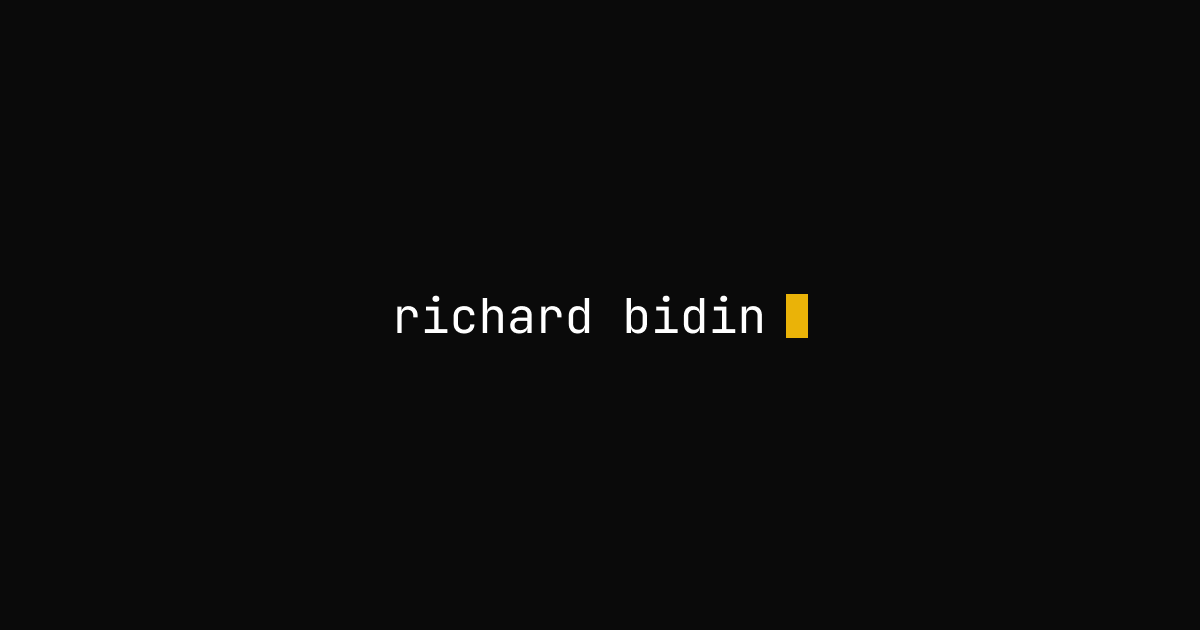
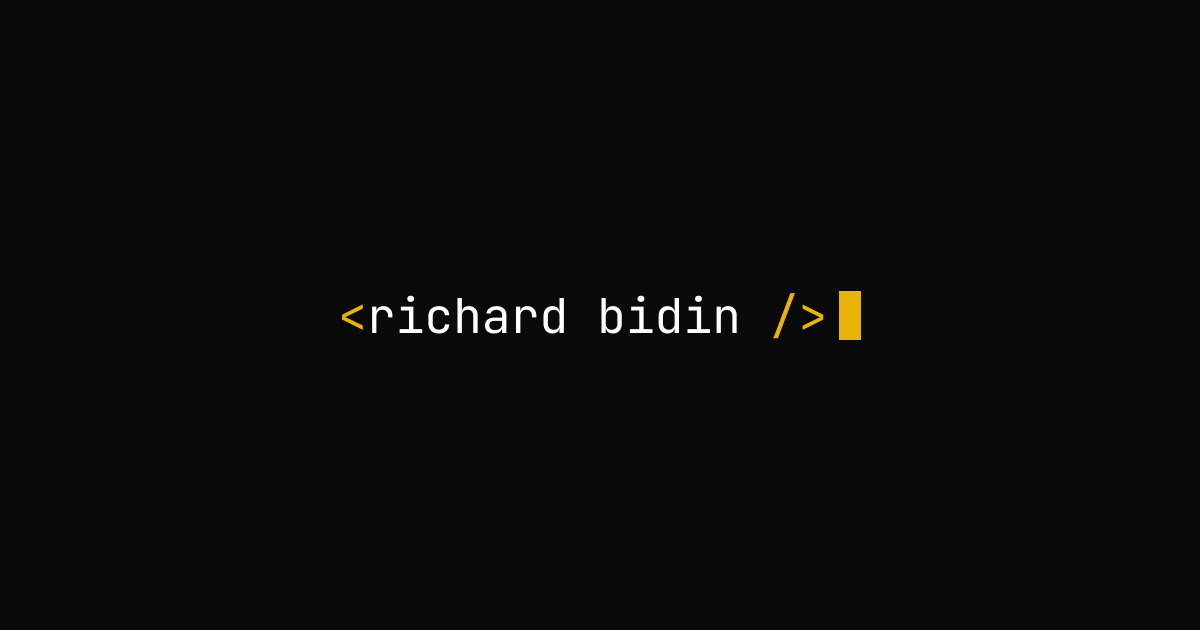
uses jetbrains mono and updates the ui

Changed region(s): [[0.2775, 0.4524, 0.74, 0.5429]]

diff --git a/src/app/layout.tsx b/src/app/layout.tsx
@@ -1,6 +1,7 @@
 import type { Metadata } from 'next';
-import './globals.css';
+import { JetBrains_Mono } from 'next/font/google';
 import { headers } from 'next/headers';
+import './globals.css';
 
 const title = 'Richard Bidin';
 const description =
@@ -27,6 +28,12 @@ export async function generateMetadata(): Promise<Metadata> {
 	};
 }
 
+const jetBrainsMono = JetBrains_Mono({
+	subsets: ['latin'],
+	variable: '--font-jetmono',
+	fallback: ['monospace'],
+});
+
 type Props = Readonly<{
 	children: React.ReactNode;
 }>;
@@ -34,7 +41,9 @@ type Props = Readonly<{
 export default function RootLayout({ children }: Props) {
 	return (
 		<html lang="pt-BR">
-			<body className="antialiased">{children}</body>
+			<body className={`${jetBrainsMono.variable} antialiased font-jetmono`}>
+				{children}
+			</body>
 		</html>
 	);
 }

diff --git a/src/app/page.tsx b/src/app/page.tsx
@@ -5,7 +5,10 @@ export default function Home() {
 	return (
 		<div>
 			<main className="h-[70dvh] flex items-center justify-center">
-				<h1 className="text-xl font-mono">coming soon.</h1>
+				<h1 className="text-xl">
+					<span className="text-yellow-500">{'<'}</span>coming soon
+					<span className="text-yellow-500">{' />'}</span>
+				</h1>
 				<Caret />
 			</main>
 			<footer className="h-[30dvh] flex flex-col gap-2 justify-start items-center">

diff --git a/tailwind.config.ts b/tailwind.config.ts
@@ -12,6 +12,9 @@ export default {
 				background: 'var(--background)',
 				foreground: 'var(--foreground)',
 			},
+			fontFamily: {
+				jetmono: ['var(--font-jetmono)'],
+			},
 			animation: {
 				blink: 'blink 1.3s steps(1, start) infinite',
 			},

diff --git a/src/app/components/caret.tsx b/src/app/components/caret.tsx
@@ -1,3 +1,5 @@
 export function Caret() {
-	return <div className="h-[21px] w-2.5 ml-1.5 bg-yellow-500 animate-blink" />;
+	return (
+		<div className="h-[21px] w-2.5 ml-[3px] bg-yellow-500 animate-blink" />
+	);
 }

diff --git a/src/app/globals.css b/src/app/globals.css
@@ -32,4 +32,5 @@ body {
 	color: var(--foreground);
 	background: var(--background);
 	font-family: sans-serif;
+	font-variant-ligatures: none;
 }
